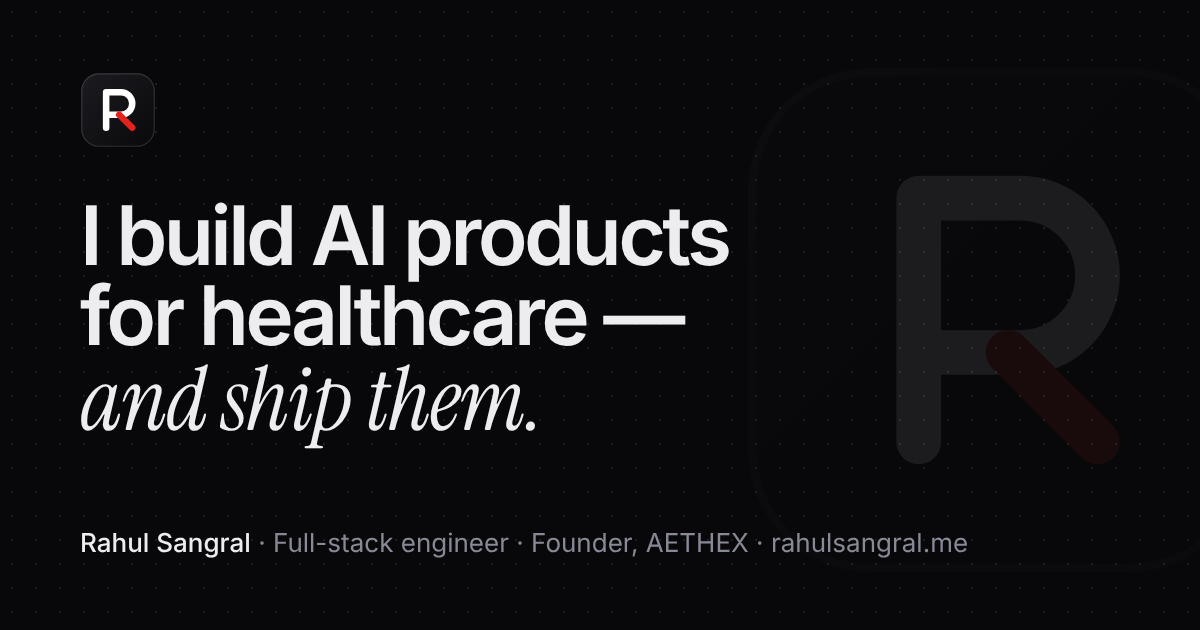
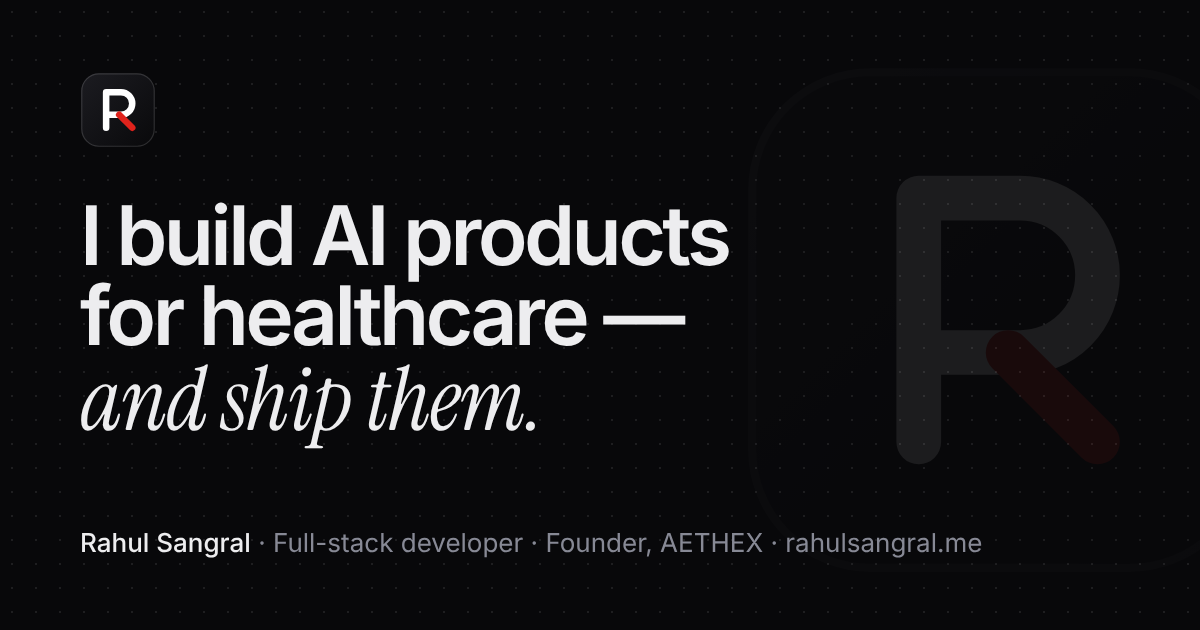
Full-stack developer wording and new email

Changed region(s): [[0.3392, 0.8444, 0.8325, 0.9048]]

diff --git a/src/data.js b/src/data.js
@@ -4,11 +4,11 @@
 
 export const profile = {
   name: 'Rahul Sangral',
-  role: 'Full-Stack Engineer & AI Developer',
+  role: 'Full-Stack Developer & AI Developer',
   tagline:
-    'Founding engineer shipping production SaaS end to end — React, FastAPI, PostgreSQL and AI tooling. Graduating 2026 and available now for SDE-1 / New Grad roles and freelance work.',
+    'Founding developer shipping production SaaS end to end — React, FastAPI, PostgreSQL and AI tooling. Graduating 2026 and available now for SDE-1 / New Grad roles and freelance work.',
   location: 'Jammu, India',
-  email: 'rishumvis007@gmail.com',
+  email: 'hello@rahulsangral.me',
   phone: '+91 96823 94363',
   // Drop your photo at /public/profile.jpg — it is used automatically.
   photo: '/profile.jpg',
@@ -105,7 +105,7 @@ export const projects = [
     genres: ['SaaS', 'Full-Stack', 'Payments'],
     hue: [350, 15],
     description:
-      'The web platform behind it all — a medical store, study hub and Cadus for doctors and students across India. Built end to end as the sole engineer: React frontend, FastAPI API, PostgreSQL/Firestore, role-based auth, Razorpay payments and CI/CD.',
+      'The web platform behind it all — a medical store, study hub and Cadus for doctors and students across India. Built end to end as the sole developer: React frontend, FastAPI API, PostgreSQL/Firestore, role-based auth, Razorpay payments and CI/CD.',
     tech: ['React', 'TypeScript', 'FastAPI', 'PostgreSQL', 'Razorpay'],
     links: [{ label: 'Visit aethex.in', url: 'https://aethex.in/' }],
   },
@@ -175,7 +175,7 @@ export const projects = [
 // Case studies for the "studio" design — real screenshots live in /public/shots.
 export const caseStudies = {
   'aethex-suite': {
-    role: 'Founder · sole engineer',
+    role: 'Founder · sole developer',
     shots: [
       { src: '/shots/hc-wards.webp', label: 'AETHEX HC · Wards & beds' },
       { src: '/shots/pc-cadus.webp', label: 'AETHEX PC · Cadus' },
@@ -186,21 +186,21 @@ export const caseStudies = {
     outcome: 'Live at v0.1.70 for Windows (x64 and ARM) and Linux, with 30+ hospital modules, 25+ college modules and a 15,515-article library that works offline.',
   },
   cadus: {
-    role: 'Founder · sole engineer',
+    role: 'Founder · sole developer',
     shots: [{ src: '/shots/cadus-chat.webp', label: 'Cadus · cited answer with safety review' }],
     problem: 'Clinicians need answers they can trust in seconds — with sources they can check, and no dosing mistakes.',
     built: 'A clinical assistant on the Medius 3.1 and Magnus 3.6 models. Every answer is cited and passes a safety review for doses and red flags before it is shown, alongside drug-interaction checks, lab interpretation, dose cards, clinical calculators and an offline library.',
     outcome: 'Live at cadus.aethex.in and built into every AETHEX app, with one account across the web and the desktop.',
   },
   'cadus-desktop': {
-    role: 'Founder · sole engineer',
+    role: 'Founder · sole developer',
     shots: [{ src: '/shots/cadus-desktop.webp', label: 'downloads.aethex.in' }],
     problem: 'Doctors spend the day inside hospital software — a browser tab gets lost between patients.',
     built: 'A native window for Windows (x64 and ARM64) and Linux. Ctrl + Shift + Space opens a new chat from any app, a tray menu keeps tools one click away, reminders surface due flashcards and ward jobs, and the app checks daily for updates.',
     outcome: 'Version 1.0.2 shipped at downloads.aethex.in, signed in with the same aethex.in account. macOS is next.',
   },
   aethex: {
-    role: 'Sole engineer',
+    role: 'Sole developer',
     shots: [{ src: '/shots/aethex-web.webp', label: 'aethex.in' }],
   },
 }
@@ -216,7 +216,7 @@ export const experience = [
     progress: 72,
     hue: [355, 20],
     description:
-      'Sole engineer behind aethex.in and its products — the Cadus clinical AI (web and desktop) and the AETHEX PC, HC and MC desktop apps. API design, authentication, database schema, Razorpay payments, analytics and CI/CD.',
+      'Sole developer behind aethex.in and its products — the Cadus clinical AI (web and desktop) and the AETHEX PC, HC and MC desktop apps. API design, authentication, database schema, Razorpay payments, analytics and CI/CD.',
     tech: ['React', 'FastAPI', 'PostgreSQL', 'Firebase', 'Razorpay', 'GA4'],
   },
   {
@@ -314,7 +314,7 @@ export const viewers = [
     rows: ['experience', 'top10', 'skills', 'certifications', 'education', 'profiles'] },
   { id: 'developer', name: 'Developer', hue: [205, 235], icon: 'code', tagline: 'Full-stack and AI engineer. Typed React frontends, FastAPI services, SQL schemas, RAG pipelines and CI/CD — built solo, shipped to real users.',
     rows: ['top10', 'skills', 'profiles', 'experience', 'certifications', 'education'] },
-  { id: 'founder', name: 'Founder', hue: [265, 295], icon: 'rocket', tagline: 'Zero-to-one builder. Sole engineer behind a live SaaS with auth, subscriptions and analytics — and founder of Zyphix. I turn an idea into a deployed product.',
+  { id: 'founder', name: 'Founder', hue: [265, 295], icon: 'rocket', tagline: 'Zero-to-one builder. Sole developer behind a live SaaS with auth, subscriptions and analytics — and founder of Zyphix. I turn an idea into a deployed product.',
     rows: ['top10', 'experience', 'skills', 'certifications', 'profiles', 'education'] },
   { id: 'investor', name: 'Investor', hue: [42, 28], icon: 'chart', tagline: 'Technical founder with shipped products and measurable outcomes: 60% faster analysis, 40% fewer manual reports, two live platforms. Capital-efficient by necessity — one engineer, production scale.',
     rows: ['top10', 'experience', 'certifications', 'skills', 'profiles', 'education'] },

diff --git a/src/pro/App.jsx b/src/pro/App.jsx
@@ -51,7 +51,7 @@ function Sidebar() {
           <img src={profile.logo} alt="" width="40" height="40" />
         </a>
         <h1>Rahul Sangral</h1>
-        <p className="side-role">Full-stack engineer &amp; founder of <em>AETHEX</em></p>
+        <p className="side-role">Full-stack developer &amp; founder of <em>AETHEX</em></p>
         <p className="side-line">I build AI products for healthcare and ship them to real users — on the web and on the desktop.</p>
 
         <a className="status" href="#contact" onClick={go('contact')}>
@@ -101,12 +101,12 @@ function About() {
     <section id="about" className="block">
       <Label n="01">About</Label>
       <p className="lead" data-reveal>
-        I'm a full-stack engineer who takes products from <em>idea to production</em> on my own — React and TypeScript on the front,
+        I'm a full-stack developer who takes products from <em>idea to production</em> on my own — React and TypeScript on the front,
         FastAPI and PostgreSQL behind it, and AI where it earns its place.
       </p>
       <p className="body" data-reveal>
         Today that work is <strong>AETHEX</strong>, a medical workspace for India's doctors, hospitals and medical colleges, and <strong>Cadus</strong>,
-        the clinical AI built into it. I'm the sole engineer: I design the APIs and schema, build the apps, handle auth and payments, and run the releases.
+        the clinical AI built into it. I'm the sole developer: I design the APIs and schema, build the apps, handle auth and payments, and run the releases.
         Before that I freelanced on web apps and data tooling, and I keep my fundamentals sharp on LeetCode and Codeforces.
       </p>
       <dl className="facts" data-reveal>

diff --git a/index.html b/index.html
@@ -3,11 +3,11 @@
   <head>
     <meta charset="UTF-8" />
     <meta name="viewport" content="width=device-width, initial-scale=1.0, viewport-fit=cover" />
-    <title>Rahul Sangral — Full-Stack Engineer & AI Developer</title>
-    <meta name="description" content="Rahul Sangral — Full-Stack Engineer & AI Developer. Founder of AETHEX and builder of the Cadus clinical AI. React, FastAPI, PostgreSQL and AI tooling." />
+    <title>Rahul Sangral — Full-Stack Developer & AI Developer</title>
+    <meta name="description" content="Rahul Sangral — Full-Stack Developer & AI Developer. Founder of AETHEX and builder of the Cadus clinical AI. React, FastAPI, PostgreSQL and AI tooling." />
     <meta name="theme-color" content="#08080a" />
-    <meta property="og:title" content="Rahul Sangral — Full-Stack Engineer & AI Developer" />
-    <meta property="og:description" content="Full-stack engineer shipping AI products to real users — AETHEX, Cadus and more." />
+    <meta property="og:title" content="Rahul Sangral — Full-Stack Developer & AI Developer" />
+    <meta property="og:description" content="Full-stack developer shipping AI products to real users — AETHEX, Cadus and more." />
     <meta property="og:type" content="website" />
     <meta property="og:url" content="https://rahulsangral.me/" />
     <meta property="og:image" content="/og.png" />

diff --git a/src/site/App.jsx b/src/site/App.jsx
@@ -91,7 +91,7 @@ function Hero() {
             <span className="dot" /> Open to SDE roles and freelance work <Icon name="arrow" size={14} />
           </a>
           <p className="hero-name">Rahul Sangral</p>
-          <h1>Full-stack engineer shipping AI products to real users.</h1>
+          <h1>Full-stack developer shipping AI products to real users.</h1>
           <p className="hero-lede">
             I build and run software end to end — React and TypeScript on the front, FastAPI and PostgreSQL behind it, AI on top.
             Right now that's <strong>AETHEX</strong>: a medical workspace for India's doctors, hospitals and medical colleges, with the <strong>Cadus</strong> clinical AI built in.

diff --git a/src/studio/App.jsx b/src/studio/App.jsx
@@ -77,7 +77,7 @@ function Hero() {
         </h1>
         <div className="hero-foot">
           <p>
-            I'm <strong>Rahul Sangral</strong>, a full-stack engineer and the founder of <strong>AETHEX</strong> — a medical workspace for
+            I'm <strong>Rahul Sangral</strong>, a full-stack developer and the founder of <strong>AETHEX</strong> — a medical workspace for
             India's doctors, hospitals and medical colleges, with the <strong>Cadus</strong> clinical AI built in. React, FastAPI, PostgreSQL and AI, end to end.
           </p>
           <div className="hero-cta">
